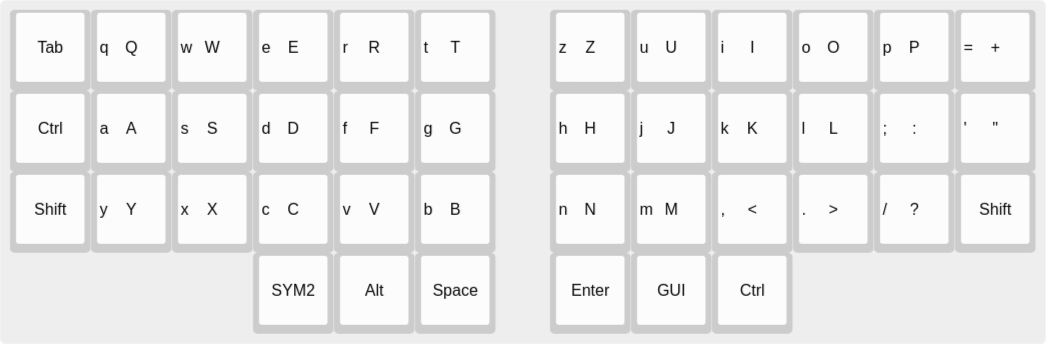
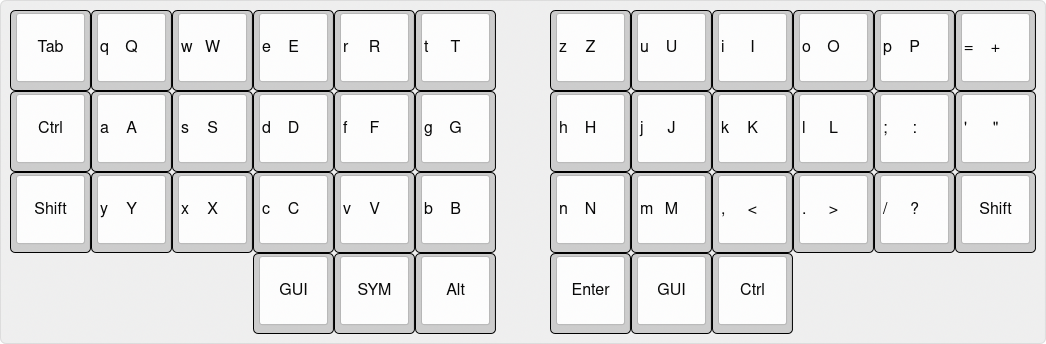
Fix aoe layer (add GUI key, fix shift)

diff --git a/README.rst b/README.rst
@@ -58,6 +58,15 @@ ZMK layer
 - `To SI Linux`: Switch keyboard layout to match SI host layout, Linux host
 - `To SI Win`: Switch keyboard layout to match SI host layout, Windows host
 
+AoE2 base layer
+---------------
+
+.. image:: aoe-slo-base.png
+
+AoE2 symbols layer
+------------------
+
+.. image:: aoe-slo-sym.png
 
 Other
 =====
